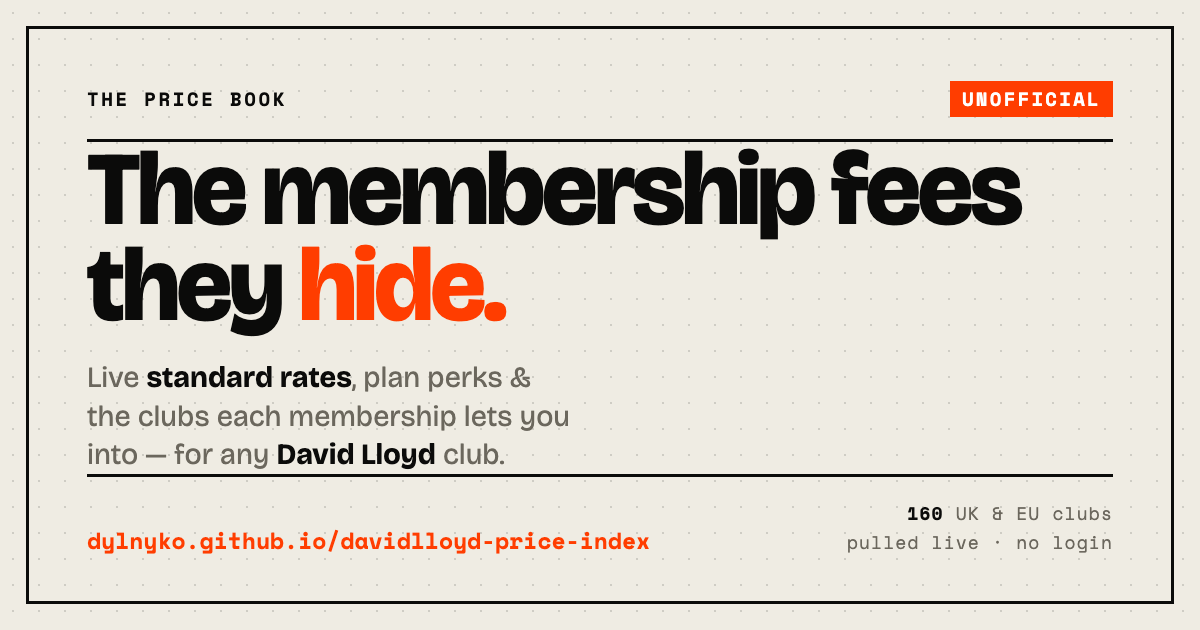
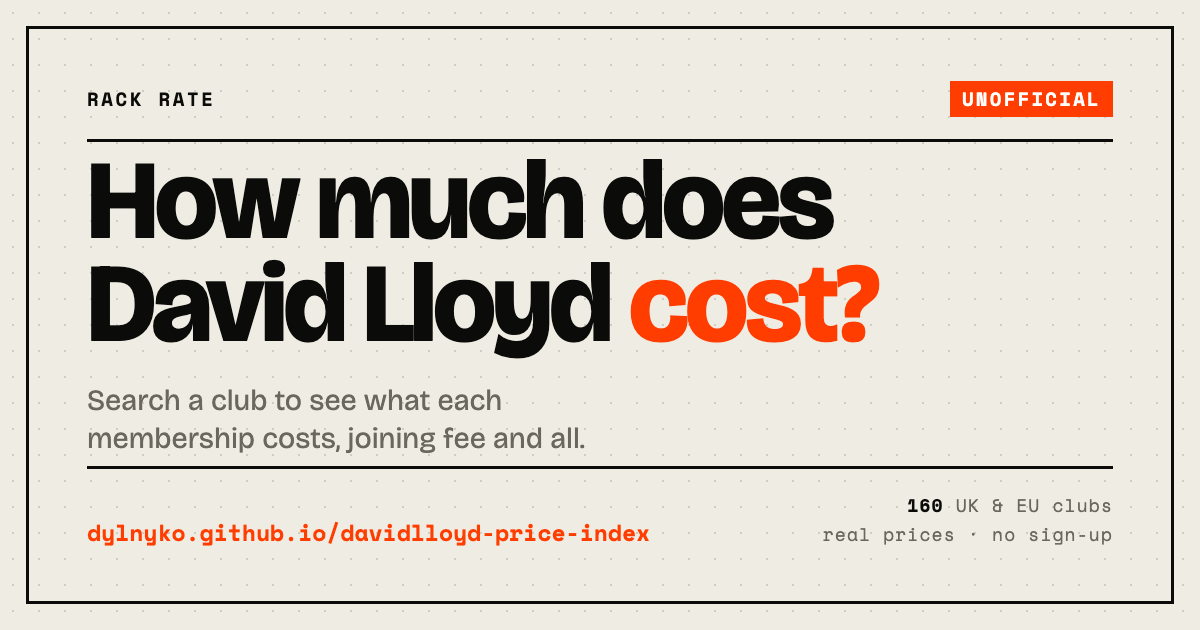
Rename to Rack Rate; plainer hero; slimmer club header & footer
- Renamed the site to "Rack Rate" (David-Lloyd-free, C&D-safe): wordmark, <title>,
  OG/Twitter tags, share-image wordmark, regenerated og-image.png (v2), README.
- Hero rewritten to a plain question, no em-dash, no conspiratorial angle:
  "How much does David Lloyd cost? / Search a club to see what each membership
  costs, joining fee and all." Meta/OG/Twitter descriptions matched to that voice.
- Club header: country now sits inline with the club name; dropped the
  "Site # / prices in GBP" subline (currency already shows by each price). The
  distance line only appears when a postcode is set. Share-image meta simplified.
- Footer trimmed to just the unaffiliated disclaimer.
24 tests. Cache-bust v48.

Changed region(s): [[0.0617, 0.2413, 0.925, 0.8746], [0.0617, 0.8143, 0.555, 0.8746], [0.0617, 0.1508, 0.2467, 0.181]]

diff --git a/index.html b/index.html
@@ -3,38 +3,38 @@
 <head>
 <meta charset="utf-8" />
 <meta name="viewport" content="width=device-width, initial-scale=1, viewport-fit=cover" />
-<title>The Price Book — unofficial David Lloyd price lookup</title>
+<title>Rack Rate — unofficial David Lloyd price lookup</title>
 <meta name="description" content="Live David Lloyd membership prices for every UK club: plan prices, joining fees, facilities and club access. Independent and unofficial." />
 <link rel="canonical" href="https://dylnyko.github.io/davidlloyd-price-index/" />
 <meta name="theme-color" content="#efece3" />
 
 <!-- Open Graph / social share -->
 <meta property="og:type" content="website" />
-<meta property="og:site_name" content="The Price Book" />
-<meta property="og:title" content="The Price Book — David Lloyd membership prices" />
-<meta property="og:description" content="The prices David Lloyd keeps behind an enquiry form — live, for every club. Unofficial." />
+<meta property="og:site_name" content="Rack Rate" />
+<meta property="og:title" content="Rack Rate — David Lloyd membership prices" />
+<meta property="og:description" content="See what each David Lloyd club charges, plan by plan. Independent and unofficial." />
 <meta property="og:url" content="https://dylnyko.github.io/davidlloyd-price-index/" />
-<meta property="og:image" content="https://dylnyko.github.io/davidlloyd-price-index/og-image.png?v=1" />
+<meta property="og:image" content="https://dylnyko.github.io/davidlloyd-price-index/og-image.png?v=2" />
 <meta property="og:image:width" content="1200" />
 <meta property="og:image:height" content="630" />
-<meta property="og:image:alt" content="The Price Book — unofficial David Lloyd price lookup" />
+<meta property="og:image:alt" content="Rack Rate — unofficial David Lloyd price lookup" />
 
 <!-- Twitter / X card -->
 <meta name="twitter:card" content="summary_large_image" />
-<meta name="twitter:title" content="The Price Book — David Lloyd membership prices" />
-<meta name="twitter:description" content="The prices David Lloyd keeps behind an enquiry form — live, for every club. Unofficial." />
-<meta name="twitter:image" content="https://dylnyko.github.io/davidlloyd-price-index/og-image.png?v=1" />
+<meta name="twitter:title" content="Rack Rate — David Lloyd membership prices" />
+<meta name="twitter:description" content="See what each David Lloyd club charges, plan by plan. Independent and unofficial." />
+<meta name="twitter:image" content="https://dylnyko.github.io/davidlloyd-price-index/og-image.png?v=2" />
 
 <link rel="preconnect" href="https://fonts.googleapis.com" />
 <link rel="preconnect" href="https://fonts.gstatic.com" crossorigin />
 <link rel="stylesheet" href="https://fonts.googleapis.com/css2?family=Bricolage+Grotesque:opsz,wght@12..96,400..800&family=Space+Mono:wght@400;700&display=swap" />
-<link rel="stylesheet" href="styles.css?v=47" />
+<link rel="stylesheet" href="styles.css?v=48" />
 </head>
 <body>
 <div class="frame">
 
   <header class="topbar">
-    <span class="mark">THE&nbsp;PRICE&nbsp;BOOK</span>
+    <span class="mark">RACK&nbsp;RATE</span>
     <nav class="nav" aria-label="Views">
       <button type="button" data-view="lookup" aria-selected="true">Club&nbsp;lookup</button>
       <button type="button" data-view="league" aria-selected="false">Price&nbsp;league</button>
@@ -48,8 +48,8 @@
 
   <section class="hero">
     <div class="hero-main">
-      <h1>The membership fees<br>they <span class="mk">hide.</span></h1>
-      <p class="lede">See what any David&nbsp;Lloyd club <strong>actually charges</strong>. No enquiry form, no sales call — just the current prices and what each plan gets you.</p>
+      <h1>How much does<br>David&nbsp;Lloyd <span class="mk">cost?</span></h1>
+      <p class="lede">Search a club to see what each membership costs, joining fee and all.</p>
     </div>
   </section>
 
@@ -79,8 +79,8 @@
   <main id="panel" class="panel" hidden aria-live="polite">
     <div class="panelhead">
       <div class="ph-title">
-        <h2 id="clubname">—</h2>
-        <p id="clubsub" class="clubsub">—</p>
+        <div class="ph-name"><h2 id="clubname">—</h2><span id="clubcountry" class="ph-country"></span></div>
+        <p id="clubsub" class="clubsub" hidden></p>
         <button id="do-compare" class="cmp-open" type="button" hidden>
           <svg viewBox="0 0 24 24" width="14" height="14" aria-hidden="true"><path d="M4 6h7M4 12h7M4 18h7M20 6h-5M20 12h-5M20 18h-5"/><path d="M8 3v18M16 3v18"/></svg>
           Compare with another club
@@ -167,7 +167,7 @@
   </section>
 
   <footer class="sitefoot">
-    <p><span class="fs-mk">UNOFFICIAL</span> Not affiliated with David&nbsp;Lloyd Leisure · indicative live rates, always confirm with the club · anonymous, cookieless analytics only.</p>
+    <p><span class="fs-mk">UNOFFICIAL</span> Not affiliated with David&nbsp;Lloyd Leisure.</p>
   </footer>
 
 </div>
@@ -205,7 +205,7 @@
 </div>
 
 <div id="toast" class="toast" role="status" aria-live="polite" hidden></div>
-<script src="app.js?v=47"></script>
+<script src="app.js?v=48"></script>
 <!-- Cloudflare Web Analytics — cookieless, no personal data. Public site tag. -->
 <script defer src="https://static.cloudflareinsights.com/beacon.min.js" data-cf-beacon='{"token": "5661e49f2a504dd69734b894973090a0"}'></script>
 </body>

diff --git a/app.js b/app.js
@@ -331,8 +331,10 @@ async function selectClub(club, fromUrl){
   const panel=qs("#panel"); panel.hidden=false;
   DETAIL=null;
   qs("#clubname").textContent=club.clubName;
-  const distChip = (USERLOC && club._mi!=null) ? ` <span class="sep">/</span> <span class="mi">${fmtMiles(club._mi)} away</span>` : "";
-  qs("#clubsub").innerHTML=`<span class="pin">◆</span> ${esc(club.country||"—")} <span class="sep">/</span> Site #${club.siteId} <span class="sep">/</span> prices in ${esc(club.currency)}${distChip}`;
+  const cc=qs("#clubcountry"); if(cc) cc.textContent=club.country||"";
+  const sub=qs("#clubsub");
+  if(USERLOC && club._mi!=null){ sub.hidden=false; sub.innerHTML=`<span class="pin">◆</span> ${fmtMiles(club._mi)} away`; }
+  else { sub.hidden=true; sub.textContent=""; }
   qs("#pricetable").hidden=true; qs("#empty").hidden=true; qs("#foot-note").hidden=true; qs("#addons").hidden=true; qs("#share").hidden=true;
   const profEl=qs("#profile"); if(profEl) profEl.hidden=true;
   const promoEl=qs("#promos"); if(promoEl) promoEl.hidden=true;
@@ -444,7 +446,7 @@ function renderTable(){
   // capture a model for the shareable image, and reveal the button
   LASTIMG = {
     club: CURRENT.clubName,
-    meta: `${CURRENT.country||""} · Site #${CURRENT.siteId} · ${cur} · ${DUR_LABEL[dur]||dur}`,
+    meta: `${CURRENT.country||""} · ${DUR_LABEL[dur]||dur}`,
     cols: activeTypes.map(t=>({ label:TYPE_LABEL[t], pp:t!=="INDIVIDUAL" })),
     rows: pkgs.map(p=>{ const jf=p.prices[dur].joiningFee||0;
       return { name:prettyPlan(p.packageKey), desc:descOf(p), pop:p.packageKey===MOSTPOP,
@@ -874,7 +876,7 @@ function drawShare(m){
   ctx.fillStyle=PAPER; ctx.fillRect(0,0,W,H);
   ctx.strokeStyle=INK; ctx.lineWidth=2; ctx.strokeRect(1,1,W-2,H-2);
   // wordmark + date
-  ctx.textAlign="left"; ctx.fillStyle=INK; ctx.font=`700 14px ${MONO}`; ctx.fillText("THE PRICE BOOK", P, yWord);
+  ctx.textAlign="left"; ctx.fillStyle=INK; ctx.font=`700 14px ${MONO}`; ctx.fillText("RACK RATE", P, yWord);
   ctx.textAlign="right"; ctx.fillStyle=MUTED; ctx.font=`400 13px ${MONO}`; ctx.fillText(m.date, W-P, yWord);
   // club + meta
   ctx.textAlign="left"; ctx.fillStyle=INK; ctx.font=`700 40px ${DISP}`; ctx.fillText(m.club, P, yClub);

diff --git a/tests/site.spec.js b/tests/site.spec.js
@@ -77,16 +77,14 @@ test("applies the Edinburgh Shawfair country override (England -> Scotland)", as
   await expect(li.locator(".cl")).toHaveText("Scotland");
   // and it carries through to the club header after selection
   await li.click();
-  await expect(page.locator("#clubsub")).toContainText("Scotland");
+  await expect(page.locator("#clubcountry")).toHaveText("Scotland");
 });
 
 test("renders the price table 1:1 with the fixture", async ({ page }) => {
   await openWestEnd(page);
 
   await expect(page.locator("#clubname")).toHaveText("Glasgow West End");
-  await expect(page.locator("#clubsub")).toContainText("Scotland");
-  await expect(page.locator("#clubsub")).toContainText("Site #75");
-  await expect(page.locator("#clubsub")).toContainText("GBP");
+  await expect(page.locator("#clubcountry")).toHaveText("Scotland");
 
   // headers: Individual, then Couple flagged per-person; no Family column
   await expect(page.locator("#thead-row th").nth(1)).toContainText("Individual");

diff --git a/styles.css b/styles.css
@@ -85,6 +85,11 @@ body{margin:0;background:var(--paper);color:var(--ink);font-family:var(--disp);
   padding-bottom:16px;border-bottom:2px solid var(--ink)}
 .ph-title h2{font-family:var(--disp);font-weight:800;font-size:clamp(1.8rem,4vw,2.7rem);
   line-height:.98;margin:0;letter-spacing:-.02em}
+.ph-name{display:flex;align-items:baseline;gap:8px 14px;flex-wrap:wrap}
+.ph-country{font-family:var(--mono);font-size:.8rem;letter-spacing:.09em;text-transform:uppercase;color:var(--muted);
+  position:relative;padding-left:16px}
+.ph-country:empty{display:none}
+.ph-country::before{content:"◆";position:absolute;left:0;color:var(--accent)}
 .clubsub{margin:9px 0 0;font-family:var(--mono);font-size:.74rem;letter-spacing:.04em;text-transform:uppercase;
   color:var(--muted);display:flex;flex-wrap:wrap;gap:6px 10px;align-items:center}
 .clubsub .pin{color:var(--accent)}

diff --git a/README.md b/README.md
@@ -1,4 +1,4 @@
-# The Price Book
+# Rack Rate
 
 An independent, unofficial web tool to look up **live David Lloyd membership prices** for any club — every plan, every membership type, every duration.
 
